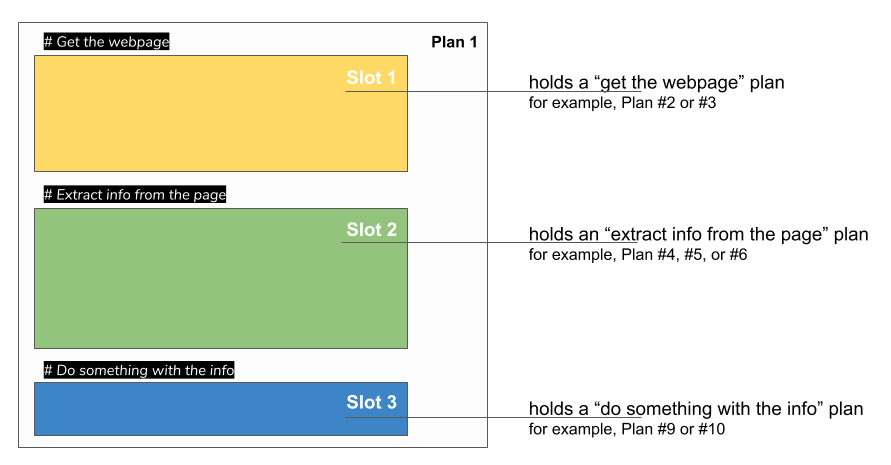
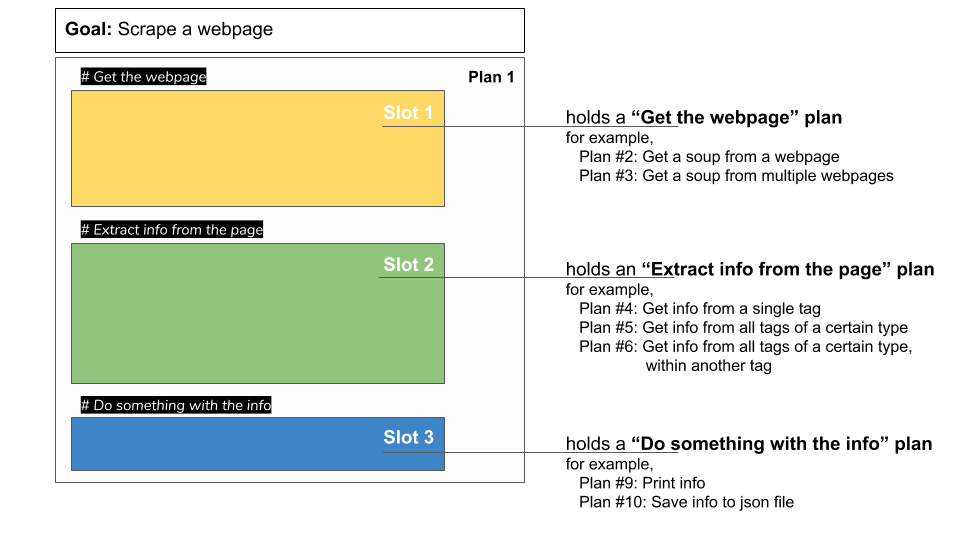
Add content to Plan 1 page

Changed region(s): [[0.0303, 0.0, 0.9697, 0.9634]]

diff --git a/_sources/plan1.rst b/_sources/plan1.rst
@@ -20,96 +20,85 @@
 Plan 1: Example
 ====================================
 
+Let's say that you want to make a list of all the Cottage Inn Pizza locations. When you go to their website, it turns out that there are a *lot* of locations. 
+
+.. image:: _static/cottageinn_scroll.gif
+    :scale: 90%
+    :align: center
+    :alt: Scrolling around the Cottage Inn locations page to see that there are a lot of locations
+
+If only you could write a little Python to easily collect them all... 
+
+It turns out that you can! 
+
 .. activecode:: football_roster_3
    :language: python3
    :nocodelens:
 
+   # Get the webpage
    # Load libraries for web scraping
    from bs4 import BeautifulSoup
    import requests
    # Get a soup from a URL 
-   url = 'https://mgoblue.com/sports/football/roster'
+   url = 'https://cottageinn.com/pick-a-location/'
    r = requests.get(url)
-   soup = BeautifulSoup(r.content)
+   soup = BeautifulSoup(r.content, 'html.parser')
 
+   # Extract info from the page
    # Get all tags of a certain type from the soup
-   first_tag = soup.find('div', class_='sidearm-roster-players-container')
-   tags = first_tag.find_all('span', class_='sidearm-roster-player-hometown')
+   tags = soup.find_all('h3')
    # Collect info from the tags
    collect_info = []
    for tag in tags:
-       # Get text from tag
-       info = tag.text
-       collect_info.append(info)
+      # Get text from tag
+      info = tag.text
+      collect_info.append(info)
 
-
-   # Do something with info
+   # Do something with the info
    # Print the info
    print(collect_info)
 
-
-.. activecode:: football_roster
-   :language: python
-   :nocodelens:
-
-   # Load libraries for web scraping
-   from bs4 import BeautifulSoup
-   import requests
-   # Get a soup from a URL 
-   url = 'https://mgoblue.com/sports/football/roster'
-   r = requests.get(url)
-   soup = BeautifulSoup(r.content)
-
-   # Get all tags of a certain type from the soup
-   first_tag = soup.find('div', class_='sidearm-roster-players-container')
-   tags = first_tag.find_all('span', class_='sidearm-roster-player-hometown')
-   # Collect info from the tags
-   collect_info = []
-   for tag in tags:
-       # Get text from tag
-       info = tag.text
-       collect_info.append(info)
-
-
-   # Do something with info
-   # Print the info
-   print(collect_info)
-
+This code probably seems a bit complicated. In this ebook, we will break down web scraping into a few common "plans". Here is the first one:
 
 
 Plan 1: Outline
 ====================================
-
-Goal: 
 
 .. image:: _static/plan1outline.png
     :scale: 90%
     :align: center
     :alt: Plan 1 outline
 
-
 Plan 1: Exercises
 ====================================
 
-This is filler text.
+The exercise below doesn't really work. I need to replace it with something else. Maybe a select question.
 
-.. dragndrop:: dnd1
+.. dragndrop:: plan1_drag
     :feedback: This is feedback.
-    :match_1: Drag me to 1|||I am 1
-    :match_2: Drag me to 2|||I am 2
-    :match_3: Drag me to 3|||I am 3
+    :match_1: Get a soup from a webpage|||Get the webpage
+    :match_2: Get a soup from multiple webpages|||Get the webpage
+    :match_3: Get info from a single tag|||Get info from the webpage
+    :match_4: Get info from all tags of a certain type|||Get info from the webpage
+    :match_5: Get info from all tags of a certain type, within another tag|||Get info from the webpage
+    :match_6: Print info|||Do something with the info
+    :match_7: Save info in a json file|||Do something with the info
 
-    This is a drag n drop question.
+    Put the plans on the left into the slot they fit into on the right.
 
-This is filler text.
+.. parsonsprob:: plan1_order
 
-.. dragndrop:: order
-    :feedback: This is feedback.
-    :match_1: Plan #10 ||| # Get the webpage
-    :match_2: Plan #4 ||| # Extract info from the page
-    :match_3: Plan #3 ||| # Do something with the info
-
-    This is a drag n drop question.
+   Choose the subgoals that achieve **Scrape a webpage**, and put them in the right order.
+   -----
+   # Get the webpage
+   =====
+   # Extract info from the page 
+   =====
+   # Do something with the info
+   =====
+   # Soup the tags#distractor
+   =====
+   # Copy the info#distractor
 
 
 
